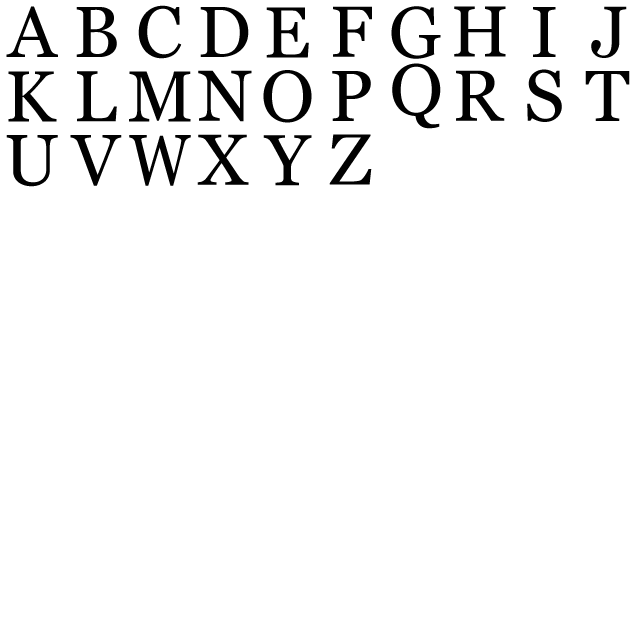
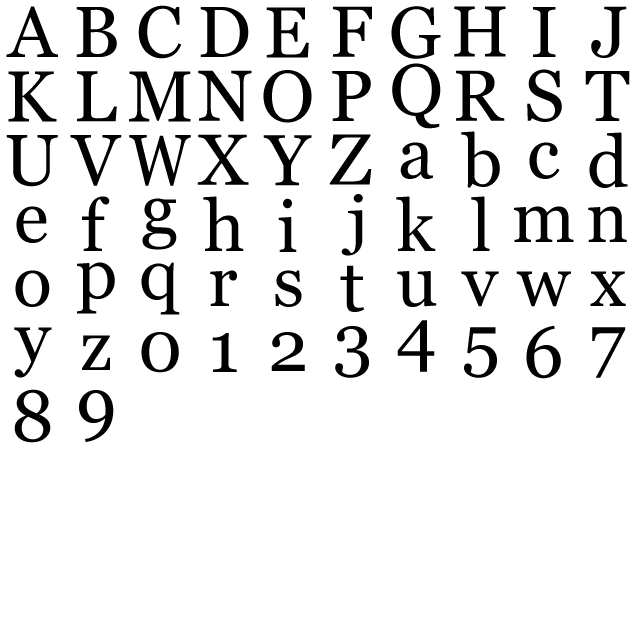
small letters and numbers work also

diff --git a/src/rally/Alphabet.java b/src/rally/Alphabet.java
@@ -31,7 +31,9 @@ public class Alphabet {
 	
 	private float offsetX = 0.0625f;
 	private float offsetY = 0.0625f;
-	private char[] alphabets = new char[] {'A', 'B', 'C', 'D', 'E', 'F', 'G', 'H', 'I', 'J', 'K', 'L', 'M', 'N', 'O', 'P', 'Q', 'R', 'S', 'T', 'U', 'V', 'W', 'X', 'Y', 'Z', ' '};
+	private char[] alphabets = new char[] {'A', 'B', 'C', 'D', 'E', 'F', 'G', 'H', 'I', 'J', 'K', 'L', 'M', 'N', 'O', 'P', 'Q', 'R', 'S', 'T', 'U', 'V', 'W', 'X', 'Y', 'Z',
+											'a', 'b', 'c', 'd', 'e', 'f', 'g', 'h', 'i', 'j', 'k', 'l', 'm', 'n', 'o', 'p', 'q', 'r', 's', 't', 'u', 'v', 'w', 'x', 'y', 'z',
+											'0', '1', '2', '3', '4', '5', '6', '7', '8', '9', ' '};
 	
 	public Alphabet(char alphabet, float x, float y, int index, Texture texture) {
 		this.texture = texture;

diff --git a/src/rally/MainMenu.java b/src/rally/MainMenu.java
@@ -63,9 +63,10 @@ public class MainMenu implements State {
 		glBindBuffer(GL_ARRAY_BUFFER, 0);
 		
 		text = new Text();
+		text.setText("Version 0123456789", 150, 50);
 		text.setText("DED RALLI CLONE", 150, 100);
-		text.setText("NEW GAME", 200, 200);
-		text.setText("OPTIONS", 200, 300);
+		text.setText("New Game", 200, 200);
+		text.setText("Options", 200, 300);
 	}
 	
 	@Override
